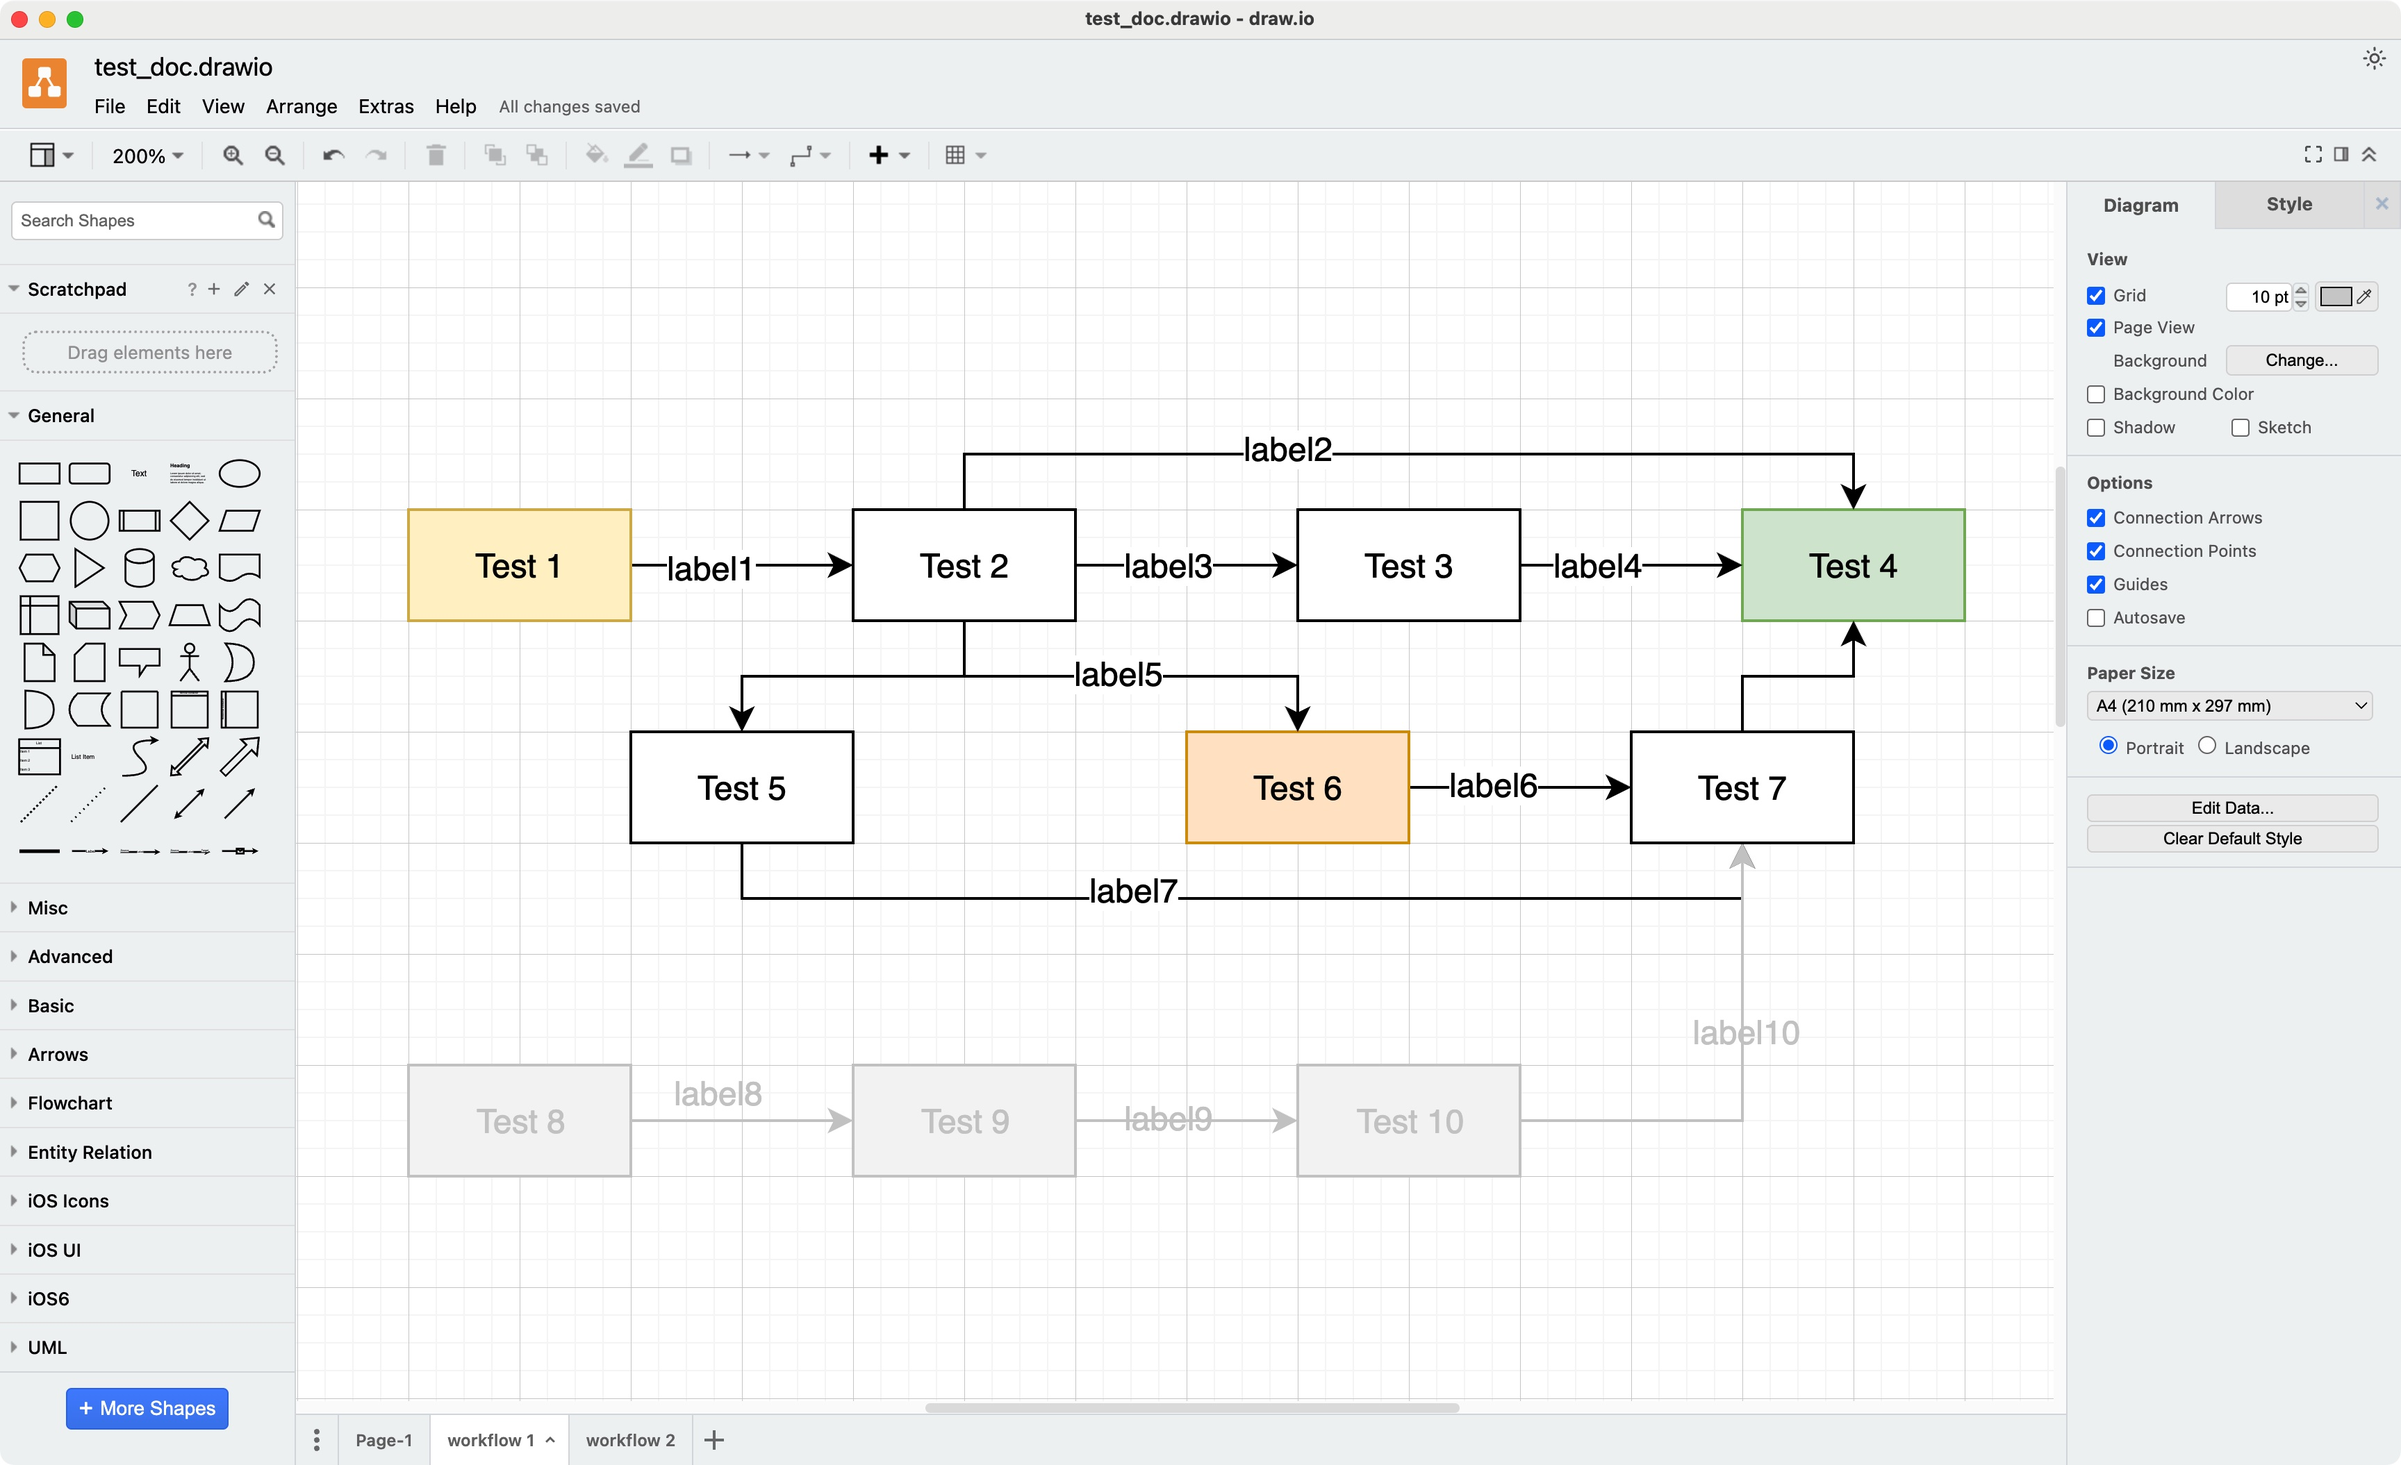
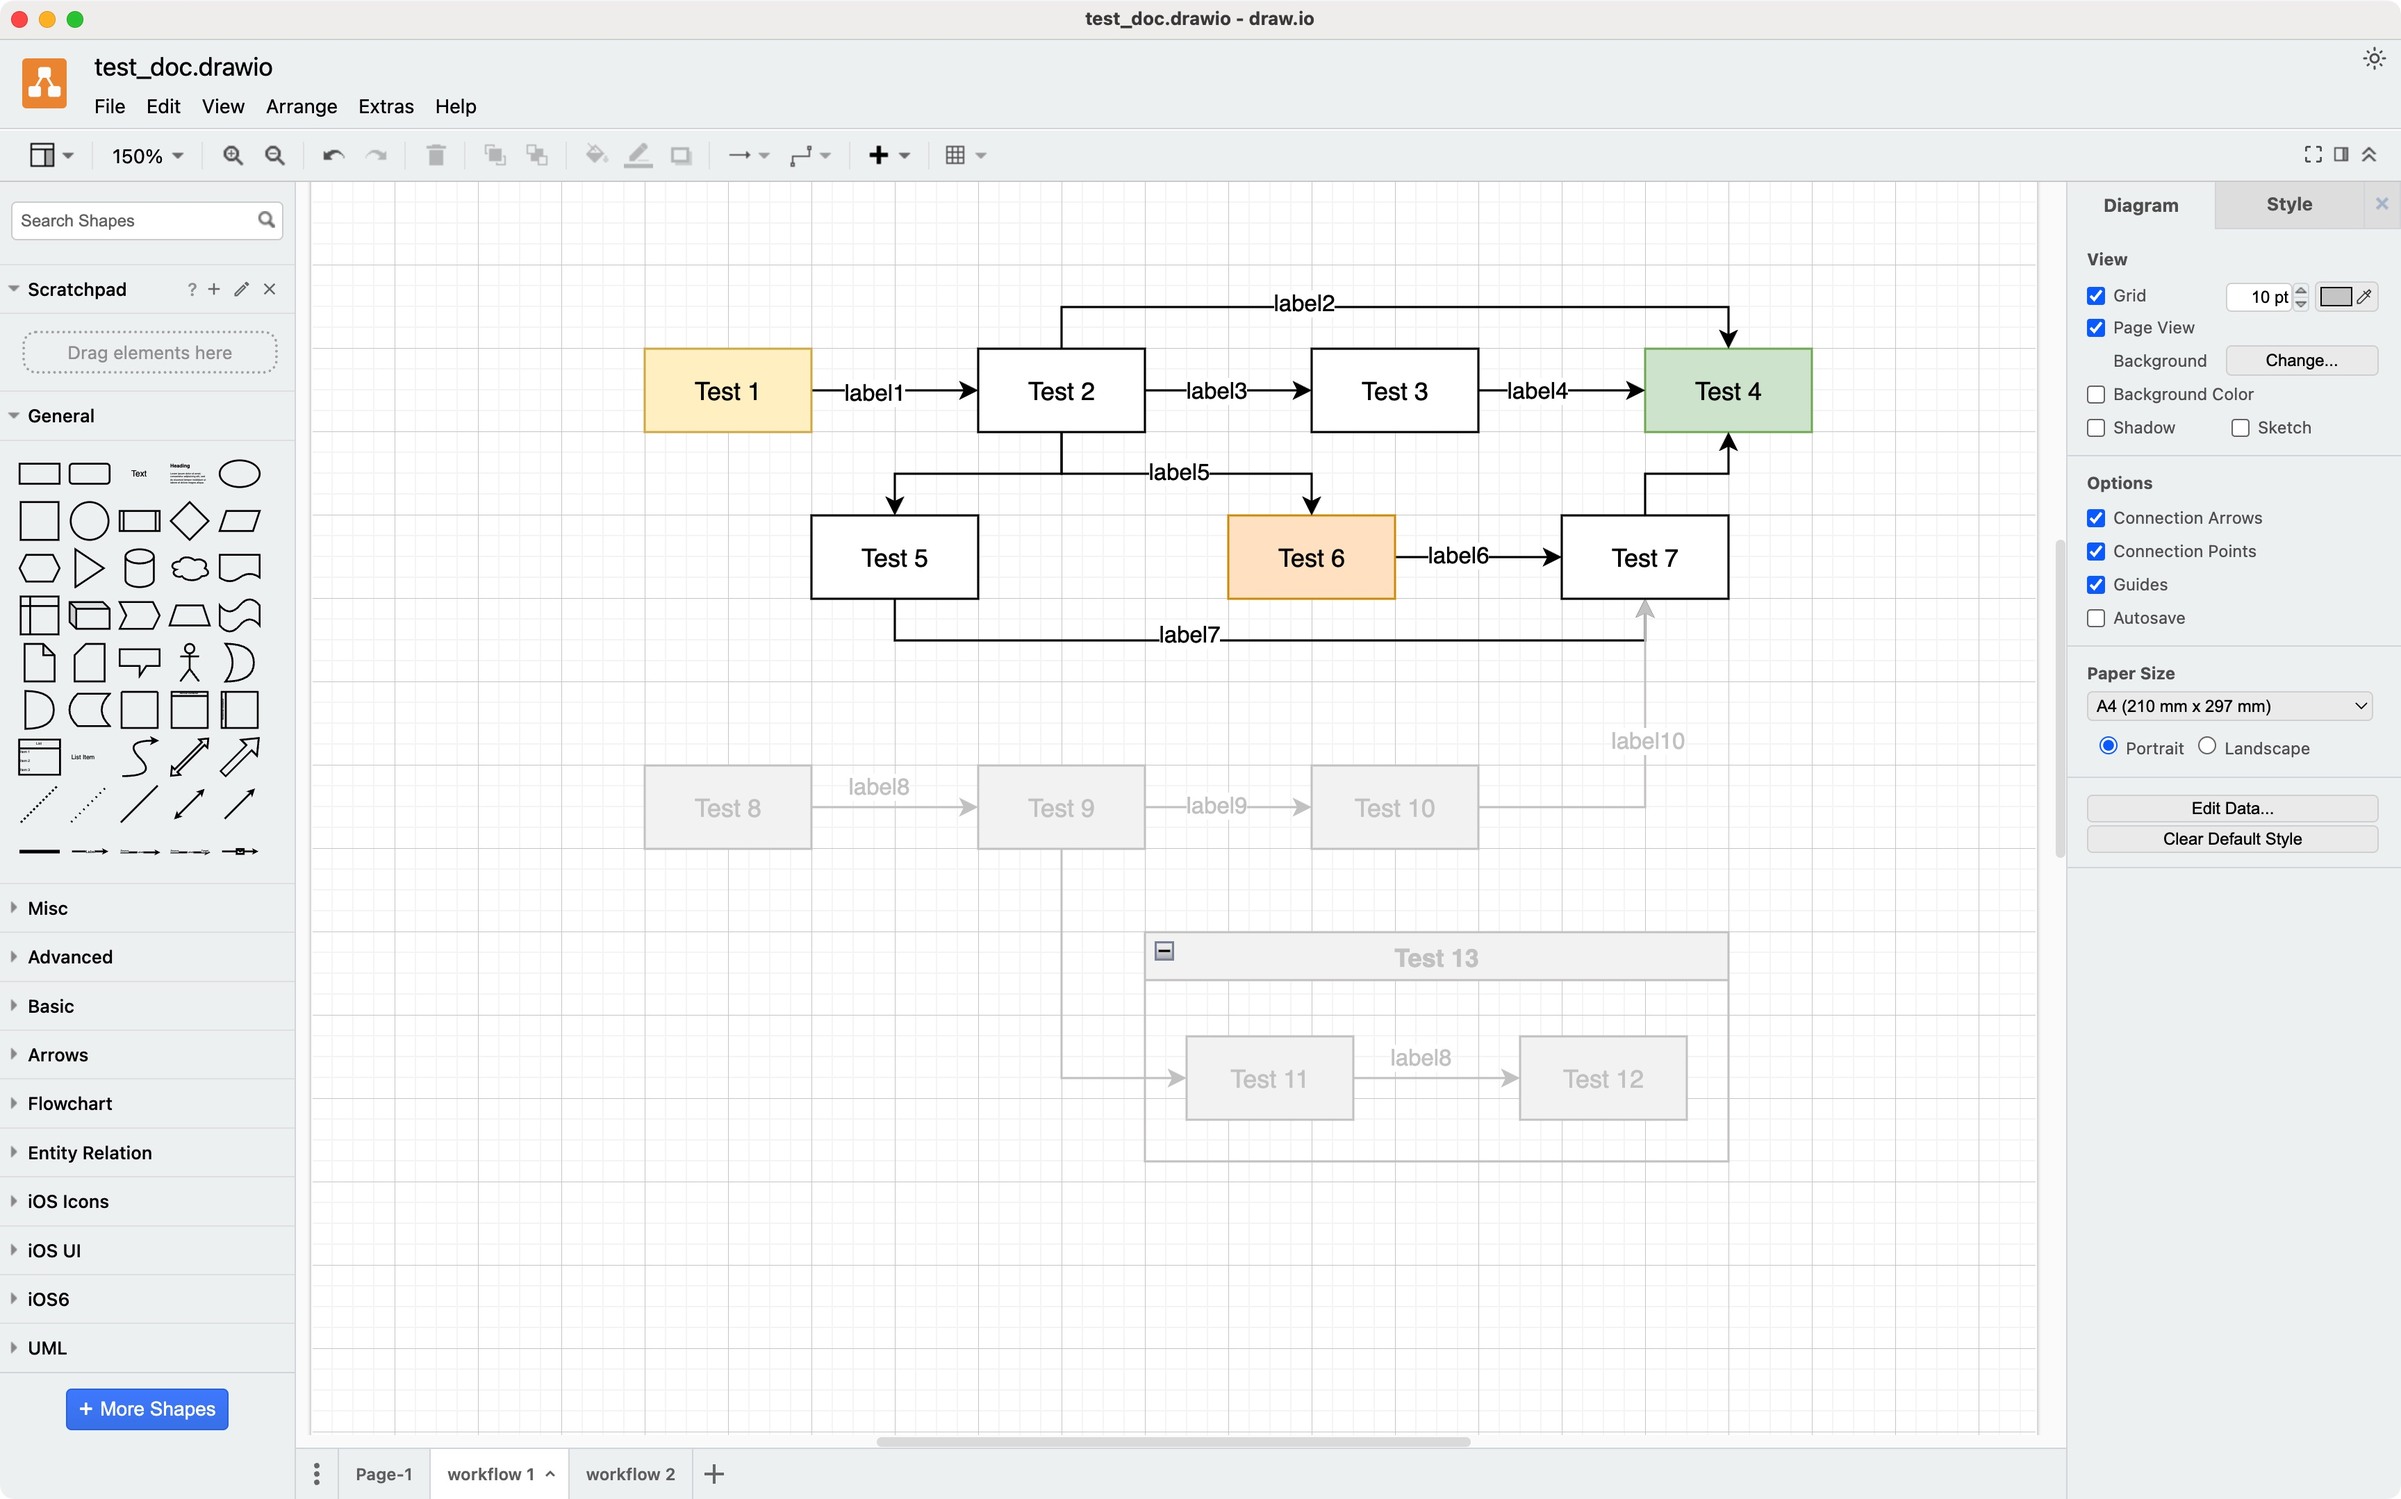
Optimal script

diff --git a/wf_highlighter.py b/wf_highlighter.py
@@ -2,13 +2,12 @@ import os
 import sys
 import json
 import copy
-import xml.etree.ElementTree as ET
+import xml.etree.ElementTree as ElementTree
 
 GRAY_STYLE = "fillColor=#f5f5f5;fontColor=#CCCCCC;strokeColor=#CCCCCC;"
 
 
 def parse_wf_config_file(filename):
-    # Build JSON file path
     filename += '.json'
     script_dir = os.path.dirname(__file__)
     file_path = os.path.join(script_dir, filename)
@@ -26,14 +25,20 @@ def parse_wf_config_file(filename):
         return {}
 
 
+def highlighted_children(new_diagram, highlighted_id_set):
+    for cell in new_diagram.findall('.//mxCell'):
+        if cell.get('style') is not None:
+            if cell.get('source') is None and cell.get('target') is None and cell.get('parent') in highlighted_id_set:
+                highlighted_id_set.add(cell.get('id'))
+
+
 def highlighter(filename, config):
-    # Build drawio file path
     filename += '.drawio'
     script_dir = os.path.dirname(__file__)
     file_path = os.path.join(script_dir, filename)
 
     # Load and parse drawio file and get the root node
-    tree = ET.parse(file_path)
+    tree = ElementTree.parse(file_path)
     root = tree.getroot()
 
     # Get the first diagram node
@@ -52,40 +57,34 @@ def highlighter(filename, config):
             new_diagram = copy.deepcopy(diagram)
             new_diagram.set('name', new_diagram_name)
 
-            # Go through all the mxCell nodes under new_diagram and modify the style property, make it become gray
-            gray_nodes_id_set = set()
+            # Get highlighted nodes id set
+            highlighted_id_set = set()
+            for cell in new_diagram.findall('.//mxCell'):
+                if cell.get('style') is not None:
+                    if cell.get('value') in new_diagram_nodes:
+                        highlighted_id_set.add(cell.get('id'))
+
+            # Get the children of these highlighted nodes id set, except lines
+            highlighted_children(new_diagram, highlighted_id_set)
+
+            # Get the highlighted line ids
             for cell in new_diagram.findall('.//mxCell'):
                 if cell.get('value') not in new_diagram_nodes and cell.get('style') is not None:
-                    # Do not handle lines at this step, will handle them later
-                    if cell.get('source') is None and cell.get('target') is None:
-                        gray_nodes_id_set.add(cell.get('id'))
+                    if (cell.get('source') is not None and cell.get('source') in highlighted_id_set
+                            and cell.get('target') is not None and cell.get('target') in highlighted_id_set):
+                        highlighted_id_set.add(cell.get('id'))
 
+            # Get the children of these highlighted nodes id set, for lines' label
+            highlighted_children(new_diagram, highlighted_id_set)
+
+            # Start dimming
+            for cell in new_diagram.findall('.//mxCell'):
+                if cell.get('style') is not None:
+                    if cell.get('id') not in highlighted_id_set:
                         existing_style = cell.get('style', '')
                         if not existing_style.endswith(GRAY_STYLE):
                             new_style = existing_style + GRAY_STYLE
                             cell.set('style', new_style)
-
-            # Handle lines' highlight
-            highlighted_lines_id_set = set()
-            for cell in new_diagram.findall('.//mxCell'):
-                if cell.get('value') not in new_diagram_nodes and cell.get('style') is not None:
-                    if not (cell.get('source') is not None and cell.get('source') not in gray_nodes_id_set
-                            and cell.get('target') is not None and cell.get('target') not in gray_nodes_id_set):
-                        existing_style = cell.get('style', '')
-                        if not existing_style.endswith(GRAY_STYLE):
-                            new_style = existing_style + GRAY_STYLE
-                            cell.set('style', new_style)
-                    else:
-                        highlighted_lines_id_set.add(cell.get('id'))
-
-            # Recover the labels' color whose parent are highlighted lines
-            for cell in new_diagram.findall('.//mxCell'):
-                if cell.get('parent') in highlighted_lines_id_set:
-                    existing_style = cell.get('style', '')
-                    if existing_style.endswith(GRAY_STYLE):
-                        new_style = existing_style[:-len(GRAY_STYLE)]
-                        new_style += 'labelBackgroundColor=#FFFFFF;'
-                        cell.set('style', new_style)
 
             # Add the new_diagram into root
             root.append(new_diagram)

diff --git a/README.md b/README.md
@@ -45,7 +45,10 @@ So we can build a JSON config file like the following:
     "Test 9",
     "Test 10",
     "Test 7",
-    "Test 4"
+    "Test 4",
+    "Test 13"  // Test 11 and Test 12 have been included by Test 13, 
+               // only config a Test 13 here is enough. The script will 
+               // help to involve Test 11 and Test 12 automatically
   ]
 }
 ```
@@ -75,3 +78,9 @@ in the sub-tab of this drawio file like this:
 ![](Pics/After_0.jpg)
 
 ![](Pics/After_1.jpg)
+
+## Note Points
+
+1. The names of the nodes in the diagram should be different. 
+If two different nodes have the same name, 
+please use node(1) and node(2) to distinguish them.
